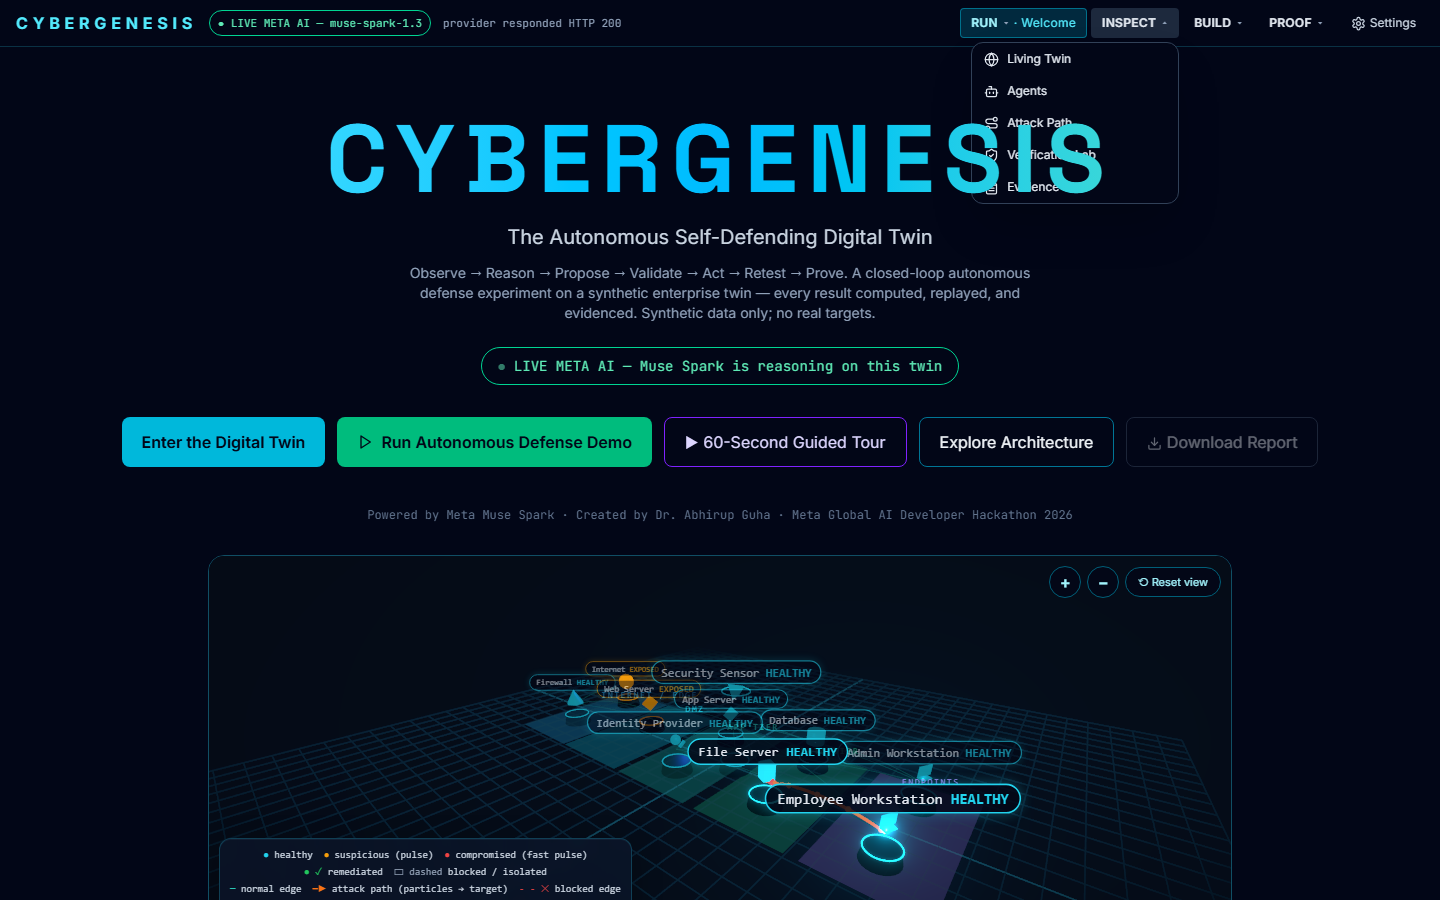
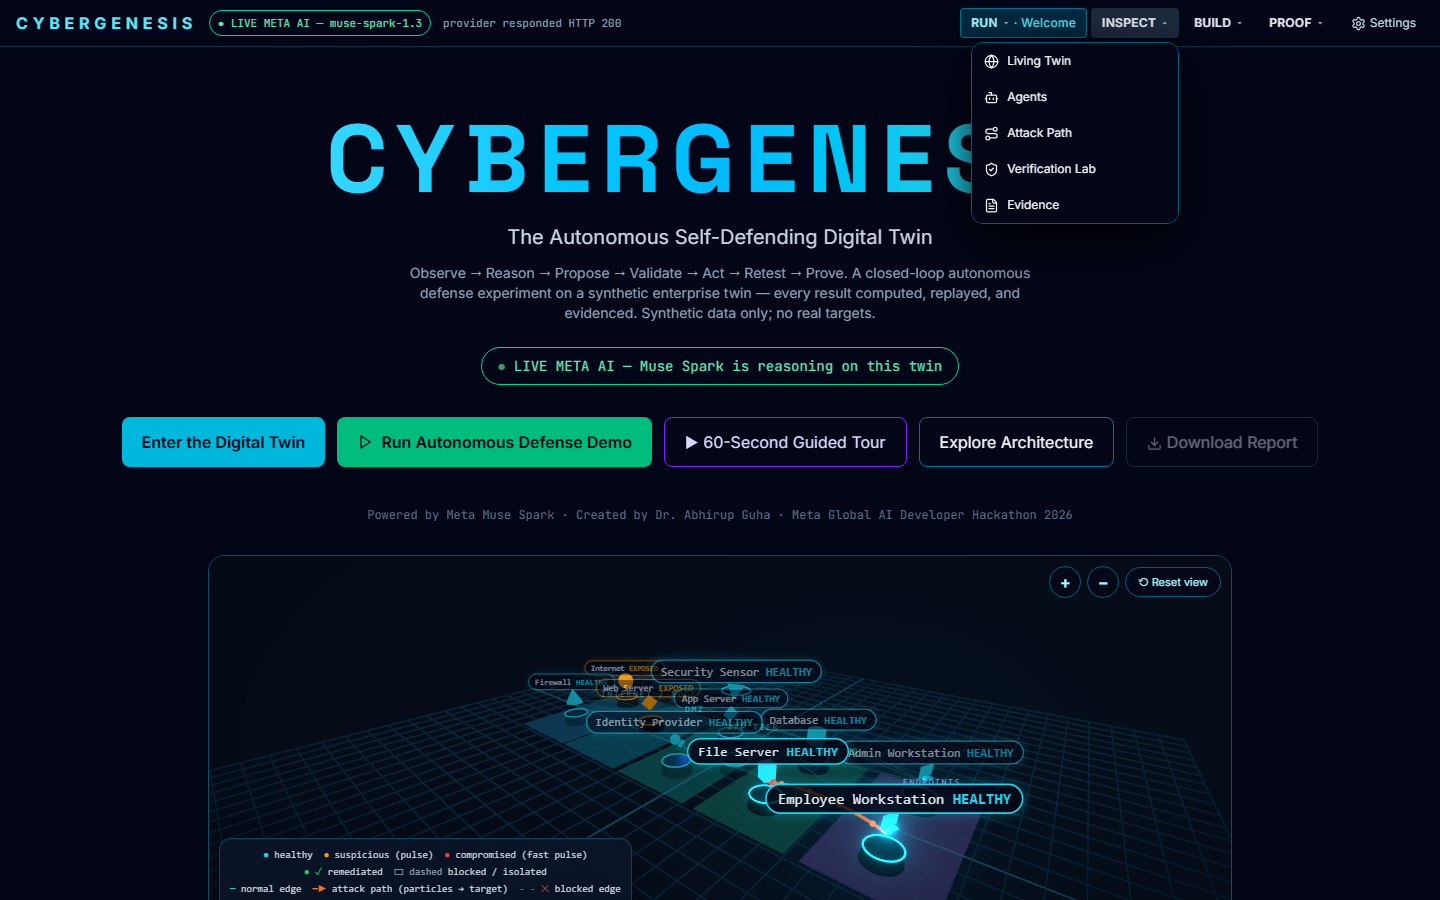
Phase 2: AI final choice after simulation (spec shape), red critic debate + revision, override events, metrics; solid front dropdown nav

Changed region(s): [[0.375, 0.7156, 0.7188, 0.9333], [0.6562, 0.0622, 0.7812, 0.2489], [0.25, 0.8089, 0.2812, 0.84]]

diff --git a/frontend/src/App.tsx b/frontend/src/App.tsx
@@ -91,10 +91,12 @@ export function NavDropdown({ group, items, active, onSelect }: {
         {hasActive && <span className="max-w-24 truncate font-normal text-cyan-300">· {activeItem?.label}</span>}
       </button>
       {open && (
-        <div role="menu" className="absolute right-0 top-full z-40 mt-1 w-52 overflow-hidden rounded-xl border border-slate-700 bg-slate-950/97 shadow-2xl backdrop-blur">
+        <div role="menu" style={{ zIndex: 110, backgroundColor: '#020617', opacity: 1 }}
+          className="absolute right-0 top-full mt-1 w-52 overflow-hidden rounded-xl border border-cyan-800 shadow-[0_18px_50px_rgba(0,0,0,0.9)]">
           {items.map((n) => (
             <button key={n.id} role="menuitem" onClick={() => { onSelect(n.id); setOpen(false) }}
-              className={`flex w-full items-center gap-2 px-3 py-2 text-left text-xs ${active === n.id ? 'bg-cyan-500/20 text-cyan-200' : 'text-slate-200 hover:bg-slate-800'}`}>
+              style={{ backgroundColor: active === n.id ? '#083344' : '#020617', opacity: 1 }}
+              className={`flex w-full items-center gap-2 px-3 py-2.5 text-left text-xs ${active === n.id ? 'text-cyan-200' : 'text-slate-100 hover:bg-slate-800'}`}>
               {n.icon} {n.label} {active === n.id && <span className="ml-auto text-cyan-300">●</span>}
             </button>
           ))}
@@ -144,6 +146,13 @@ export function CandidatesPanel() {
       {m && <p className="mt-1 font-mono text-[10px] text-slate-400">
         Optimality: NetworkX min edge cut = {String(m.optimal_edge_cut ?? '—')} · defense removed {String(m.defense_edges_removed ?? '—')} edges · gap = {String(m.optimality_gap ?? '—')}
       </p>}
+      {m?.ai_final_choice != null && (
+        <p className="mt-1 text-[11px] text-violet-300">
+          AI final choice: {String((m.ai_final_choice as { chosen_label?: string }).chosen_label ?? '—')}
+          {' '}· matched simulation optimum: {m.ai_matched_optimum === true ? 'yes' : m.ai_matched_optimum === false ? 'no (AI chose differently — its justification is in the timeline)' : '—'}
+          {' '}· candidates considered: {String(m.candidates_considered ?? '—')}
+        </p>
+      )}
     </section>
   )
 }
@@ -513,7 +522,7 @@ export default function App() {
 
   return (
     <div className="min-h-screen bg-[#020617] text-slate-100">
-      <header className="flex flex-wrap items-center gap-3 border-b border-cyan-900/60 px-4 py-2 bg-slate-950/80 backdrop-blur">
+      <header className="relative z-[100] flex flex-wrap items-center gap-3 border-b border-cyan-900/60 px-4 py-2 bg-[#020617]">
         <div className="font-black tracking-[0.3em] text-cyan-300">CYBERGENESIS</div>
         <span className={`text-[11px] font-mono px-2 py-1 rounded-full border ${live ? 'border-emerald-400 text-emerald-300' : 'border-amber-400 text-amber-300'}`}>
           {live ? '● LIVE META AI' : '● OFFLINE SIMULATION'} — {s.modelStatus?.model ?? 'muse-spark-1.3'}

diff --git a/backend/app/orchestration/orchestrator.py b/backend/app/orchestration/orchestrator.py
@@ -201,27 +201,57 @@ async def run_experiment(run_id: str, step_delay_ms: int | None = None) -> None:
             for c in candidates:
                 emit("candidate_evaluation", f"{c['label']} [{c['origin']}]: blocked={c['blocked']} disrupted={c['disrupted']} — {c['detail']}",
                      agent="defense_strategist", payload=c)
-            choice = await agents.final_choice(candidates, scenario, run_id)
-            final_choice_meta.update(choice)
-            chosen_cand = choice["candidate"]
-            emit("final_choice", f"Final choice by {'Meta AI' if choice['mode'] == 'live' else 'deterministic fallback'}: {chosen_cand['label'] if chosen_cand else 'none'} — {choice['rationale']} (agrees with simulation optimum: {choice['agrees_with_optimum']})",
-                 agent="defense_strategist", payload={"label": chosen_cand["label"] if chosen_cand else None, "mode": choice["mode"],
-                                                      "agrees_with_optimum": choice["agrees_with_optimum"]})
-            chosen = [DefenseAction(**a) for a in chosen_cand["actions"]] if chosen_cand else list(proposal.actions)
+            chosen_cand = None
+            chosen: list = list(proposal.actions)
+            for _attempt in range(2):  # attempt 1 may be revised after the red-team critic debate
+                choice = await agents.final_choice(candidates, scenario, run_id)
+                final_choice_meta.update(choice)
+                chosen_cand = choice["candidate"]
+                emit("final_choice", f"Final choice by {'Meta AI' if choice['mode'] == 'live' else 'deterministic fallback'}: "
+                                     f"{choice['chosen_label']} — {choice['justification']} (confidence {choice['confidence']}, "
+                                     f"matched simulation optimum: {choice['ai_matched_optimum']})",
+                     agent="defense_strategist", payload={k: choice[k] for k in ("chosen_label", "justification", "confidence", "mode", "ai_matched_optimum", "candidates_considered")})
+                if chosen_cand is not None:
+                    chosen = [DefenseAction(**a) for a in chosen_cand["actions"]]
+                else:  # explicit substitution — never silent
+                    emit("override", "System substitution: no feasible simulated candidate, executing the agent proposal verbatim (policy + verification will judge it)",
+                         agent="defense_executor", payload={"reason": "no_feasible_candidate"})
+                    chosen = list(proposal.actions)
 
-            # red-team critic: how would red get around this, before it is applied?
-            clone = twin.clone()
-            for a in chosen:
-                if policy_engine.evaluate(a.action_type, a.asset_id, a.params, clone).approved:
-                    try:
-                        clone.apply_action(a.action_type, a.asset_id, a.params)
-                    except ValueError:
-                        pass
-            alt = red_team.enumerate_paths(clone, scenario["source_asset"], scenario["target_asset"]) \
-                if scenario["verification_kind"] == "reachability" else []
-            critic = await agents.criticize_defense(scenario, chosen_cand["label"] if chosen_cand else "proposal", alt, run_id)
-            emit("red_critic", f"Red critic ({critic['mode']}): {critic['assessment']}" + (f" — bypass: {' -> '.join(critic['bypass'])}" if critic["bypass"] else ""),
-                 agent="adversary_simulator", payload=critic)
+                # red-team critic: how would red get around this, before it is applied?
+                clone = twin.clone()
+                for a in chosen:
+                    if policy_engine.evaluate(a.action_type, a.asset_id, a.params, clone).approved:
+                        try:
+                            clone.apply_action(a.action_type, a.asset_id, a.params)
+                        except ValueError:
+                            pass
+                alt = red_team.enumerate_paths(clone, scenario["source_asset"], scenario["target_asset"]) \
+                    if scenario["verification_kind"] == "reachability" else []
+                critic = await agents.criticize_defense(scenario, chosen_cand["label"] if chosen_cand else "proposal", alt, run_id)
+                emit("red_critic", f"Red critic ({critic['mode']}): {critic['assessment']}" + (f" — bypass: {' -> '.join(critic['bypass'])}" if critic["bypass"] else ""),
+                     agent="adversary_simulator", payload=critic)
+                if _attempt == 0 and critic["bypass"] and critic["suggested_campaign"]:
+                    verdict = policy_engine.evaluate_campaign(critic["suggested_campaign"], twin)
+                    if verdict["approved"]:
+                        emit("debate", f"DEBATE — Red: '{critic['assessment']}' via {' -> '.join(critic['bypass'])}. Blue gets one revision.",
+                             agent="adversary_simulator", payload={"critic": critic, "campaign_valid": True})
+                        proposal = await agents.propose_defense(
+                            scenario, hyp_obj, run_id, twin=twin, past_examples=past_examples,
+                            extra_context=(f"RED CRITIC: your previous defense can be bypassed via {' -> '.join(critic['bypass'])}. "
+                                           f"Assessment: {critic['assessment']}. Propose a revised defense that also covers this bypass."))
+                        db.add(models.DefenseProposal(run_id=run_id, actions=[a.model_dump() for a in proposal.actions],
+                                                      justification=f"[revision after critic] {proposal.justification}",
+                                                      confidence=proposal.confidence, mode=proposal.mode)); db.commit()
+                        emit("agent_decision", f"[revision] {proposal.justification}", agent="defense_strategist", payload=proposal.model_dump())
+                        emit("override", "Blue revised its defense after the red critic debate (strategist revision, recorded)",
+                             agent="defense_strategist", payload={"reason": "critic_bypass_validated"})
+                        candidates = evaluate_candidates(twin.clone(), baseline_twin, scenario, [a.model_dump() for a in proposal.actions])
+                        for c in candidates:
+                            emit("candidate_evaluation", f"[revision] {c['label']} [{c['origin']}]: blocked={c['blocked']} disrupted={c['disrupted']}",
+                                 agent="defense_strategist", payload=c)
+                        continue
+                break
 
             await set_state("POLICY_VALIDATING", "Deterministic policy engine validating chosen defense", "defense_executor")
             decisions = []
@@ -395,7 +425,11 @@ async def run_experiment(run_id: str, step_delay_ms: int | None = None) -> None:
         result.metrics["rounds"] = rounds
         result.metrics["candidates"] = candidates
         result.metrics["ai_final_choice"] = {"mode": final_choice_meta.get("mode"),
-                                             "agrees_with_simulation_optimum": final_choice_meta.get("agrees_with_optimum")}
+                                             "chosen_label": final_choice_meta.get("chosen_label"),
+                                             "justification": final_choice_meta.get("justification"),
+                                             "confidence": final_choice_meta.get("confidence")}
+        result.metrics["ai_matched_optimum"] = final_choice_meta.get("ai_matched_optimum")
+        result.metrics["candidates_considered"] = final_choice_meta.get("candidates_considered")
         latest_ver = db.query(models.VerificationResultRow).filter_by(run_id=run_id).order_by(
             models.VerificationResultRow.created_at.desc()).first()
         if latest_ver:

diff --git a/backend/app/agents/agents.py b/backend/app/agents/agents.py
@@ -98,49 +98,67 @@ async def investigate(scenario: dict, obs: AgentObservation, run_id: str, teleme
 FINAL_CHOICE_SYSTEM = (
     "You are the Defense Strategist in CYBERGENESIS making the FINAL choice among simulated candidate defenses. "
     "Each candidate was replayed on a cloned twin: blocked=true means the attack objective is stopped, disrupted counts "
-    "legitimate paths broken. Candidates whose path_blocked=true cut the currently attacked path but may leave alternates. "
-    "Return ONLY JSON {\"candidate_label\": str, \"rationale\": str}. Pick the best security/disruption trade-off; "
-    "the simulation-optimal candidate is listed first but the choice is yours."
+    "legitimate paths broken, path_blocked=true means it cuts the currently attacked path but may leave alternates. "
+    "The table also includes each candidate's policy feasibility. Choose the final defense and justify the trade-off. "
+    "Return ONLY JSON {\"chosen_label\": str, \"justification\": str, \"confidence\": float}. "
+    "The choice is yours — the simulation-optimal candidate is listed first but you may pick another and explain why."
 )
 CRITIC_SYSTEM = (
     "You are the Red Team critic in CYBERGENESIS, a defensive simulation on synthetic data only. "
-    "Given a proposed defense and the validated alternate paths that remain after it, state how you would get around it. "
-    "Return ONLY JSON {\"bypass_path_index\": int, \"assessment\": str}. Use -1 if no bypass exists. No commands."
+    "Given the chosen defense and the validated alternate paths that remain after it, say how you would get around it. "
+    "Return ONLY JSON {\"bypass\": str|null, \"assessment\": str} where bypass is the exact 'a -> b -> c' path string "
+    "from the list, or null if none works. No commands."
 )
 
 
 async def final_choice(candidates: list[dict], scenario: dict, run_id: str) -> dict:
-    """The AI makes the final call among simulated candidates (simulation informs, never overrides)."""
+    """Spec-shaped final choice: {chosen_label, justification, confidence} + execution metadata.
+    Simulation informs; the AI decides; nothing is silently overridden."""
     feasible = [c for c in candidates if c["feasible"]]
     if not feasible:
-        return {"candidate": None, "mode": "offline", "rationale": "no feasible candidate", "agrees_with_optimum": False}
-    listing = "\n".join(f"- {c['label']} [{c['origin']}]: blocked={c['blocked']} path_blocked={c.get('path_blocked')} disrupted={c['disrupted']}"
-                        for c in feasible)
+        return {"chosen_label": None, "justification": "no feasible candidate", "confidence": 0.0,
+                "candidate": None, "mode": "offline", "ai_matched_optimum": False, "candidates_considered": 0}
+    listing = "\n".join(
+        f"- {c['label']} [{c['origin']}]: actions={c['actions']} blocked={c['blocked']} "
+        f"path_blocked={c.get('path_blocked')} disrupted={c['disrupted']} detail={c['detail']}"
+        for c in feasible)
     try:
-        data, _ = await meta_client.chat_json(FINAL_CHOICE_SYSTEM, f"Invariant: {scenario['invariant']}\nCandidates:\n{listing}", run_id)
-        chosen = next((c for c in feasible if c["label"] == data.get("candidate_label")), None)
+        data, _ = await meta_client.chat_json(FINAL_CHOICE_SYSTEM, f"Invariant: {scenario['invariant']}\nSimulated candidates:\n{listing}", run_id)
+        chosen = next((c for c in feasible if c["label"] == data.get("chosen_label")), None)
         if chosen is not None:
-            return {"candidate": chosen, "mode": "live", "rationale": str(data.get("rationale", ""))[:220],
-                    "agrees_with_optimum": chosen["label"] == feasible[0]["label"] if feasible else False}
+            return {"chosen_label": chosen["label"], "justification": str(data.get("justification", ""))[:300],
+                    "confidence": float(data.get("confidence", 0.7)), "candidate": chosen, "mode": "live",
+                    "ai_matched_optimum": chosen["label"] == feasible[0]["label"],
+                    "candidates_considered": len(feasible)}
     except Exception:  # noqa: BLE001 - labelled deterministic fallback
         pass
-    return {"candidate": feasible[0], "mode": "offline", "rationale": "simulation-optimal candidate (deterministic final choice)",
-            "agrees_with_optimum": True}
+    return {"chosen_label": feasible[0]["label"], "justification": "simulation-optimal candidate (deterministic final choice)",
+            "confidence": 0.8, "candidate": feasible[0], "mode": "offline",
+            "ai_matched_optimum": True, "candidates_considered": len(feasible)}
+
+
+def _campaign_from_path(path: list[str]) -> dict:
+    return {"foothold": path[0], "pivot_identity": None, "objective": path[-1],
+            "steps": [{"type": "network_connection", "asset": a, "description": f"bypass via {a} (synthetic)"} for a in path],
+            "rationale": "critic-suggested bypass campaign", "confidence": 0.7, "mode": "offline", "path": path}
 
 
 async def criticize_defense(scenario: dict, defense_label: str, alternate_paths: list[list[str]], run_id: str) -> dict:
-    """Red-team critic: how would red get around this defense?"""
+    """Red-team critic: {bypass, suggested_campaign, assessment, mode}."""
     if not alternate_paths:
-        return {"bypass": None, "mode": "offline", "assessment": "no validated bypass path remains after this defense"}
+        return {"bypass": None, "suggested_campaign": None, "mode": "offline",
+                "assessment": "no validated bypass path remains after this defense"}
     try:
-        listing = "\n".join(f"{i}: {' -> '.join(p)}" for i, p in enumerate(alternate_paths))
+        listing = "\n".join(" -> ".join(p) for p in alternate_paths)
         data, _ = await meta_client.chat_json(CRITIC_SYSTEM, f"Defense: {defense_label}. Invariant: {scenario['invariant']}\nRemaining validated paths:\n{listing}", run_id)
-        idx = int(data.get("bypass_path_index", 0))
-        if 0 <= idx < len(alternate_paths):
-            return {"bypass": alternate_paths[idx], "mode": "live", "assessment": str(data.get("assessment", ""))[:220]}
+        bypass_str = data.get("bypass")
+        path = next((p for p in alternate_paths if " -> ".join(p) == bypass_str), alternate_paths[0])
+        return {"bypass": path, "suggested_campaign": _campaign_from_path(path), "mode": "live",
+                "assessment": str(data.get("assessment", ""))[:220]}
     except Exception:  # noqa: BLE001
         pass
-    return {"bypass": alternate_paths[0], "mode": "offline", "assessment": "shortest remaining validated path bypasses this defense"}
+    return {"bypass": alternate_paths[0], "suggested_campaign": _campaign_from_path(alternate_paths[0]),
+            "mode": "offline", "assessment": "shortest remaining validated path bypasses this defense"}
 
 
 async def propose_defense(scenario: dict, hyp: IncidentHypothesis, run_id: str, twin=None,

diff --git a/backend/tests/test_custom.py b/backend/tests/test_custom.py
@@ -195,6 +195,53 @@ async def test_phase1_campaign_validation_and_round2_after_pass():
     assert all("foothold" in r and "objective" in r for r in rounds)
 
 
+@pytest.mark.asyncio
+async def test_phase2_ai_final_choice_and_metrics(monkeypatch):
+    from app.agents import agents
+
+    calls = {"n": 0}
+
+    async def fake_final(candidates, scenario, run_id):
+        calls["n"] += 1
+        # deliberately pick a non-optimal candidate when one exists; system must execute the AI's pick
+        pick = candidates[-1] if len(candidates) > 1 else candidates[0]
+        return {"chosen_label": pick["label"], "justification": "test double pick", "confidence": 0.66,
+                "candidate": pick, "mode": "live", "ai_matched_optimum": pick is candidates[0],
+                "candidates_considered": len(candidates)}
+
+    monkeypatch.setattr(agents, "final_choice", fake_final)
+    rid = client.post("/api/experiments", json={"scenario_id": "lateral_movement", "seed": 42}).json()["id"]
+    await run_experiment(rid)
+    res = client.get(f"/api/experiments/{rid}/results").json()
+    assert calls["n"] >= 1
+    m = res["verification"]["metrics"]
+    assert "ai_matched_optimum" in m and "candidates_considered" in m and m["candidates_considered"] >= 2
+    assert res["run"]["state"] == "COMPLETED"  # honest outcome either way; choice was the AI's
+
+
+@pytest.mark.asyncio
+async def test_phase2_critic_debate_revision(monkeypatch):
+    from app.agents import agents
+
+    async def fake_critic(scenario, label, alt_paths, run_id):
+        if alt_paths:
+            path = alt_paths[0]
+            return {"bypass": path, "mode": "live", "assessment": "segment leaves an alternate route",
+                    "suggested_campaign": {"foothold": path[0], "pivot_identity": None, "objective": path[-1],
+                                           "steps": [{"type": "network_connection", "asset": a, "description": "bypass"} for a in path],
+                                           "rationale": "critic", "confidence": 0.7, "mode": "live", "path": path}}
+        return {"bypass": None, "suggested_campaign": None, "mode": "live", "assessment": "no bypass"}
+
+    monkeypatch.setattr(agents, "criticize_defense", fake_critic)
+    rid = client.post("/api/experiments", json={"scenario_id": "red_vs_blue_battle", "seed": 42}).json()["id"]
+    await run_experiment(rid)
+    evs = client.get(f"/api/experiments/{rid}/events").json()
+    types = [e["event_type"] for e in evs]
+    assert "debate" in types or "red_critic" in types  # critic exchange is on the record
+    res = client.get(f"/api/experiments/{rid}/results").json()
+    assert res["run"]["state"] == "COMPLETED"
+
+
 def test_benchmark_endpoint():
     b = client.get("/api/benchmark").json()
     assert "available" in b and "scope" in b
